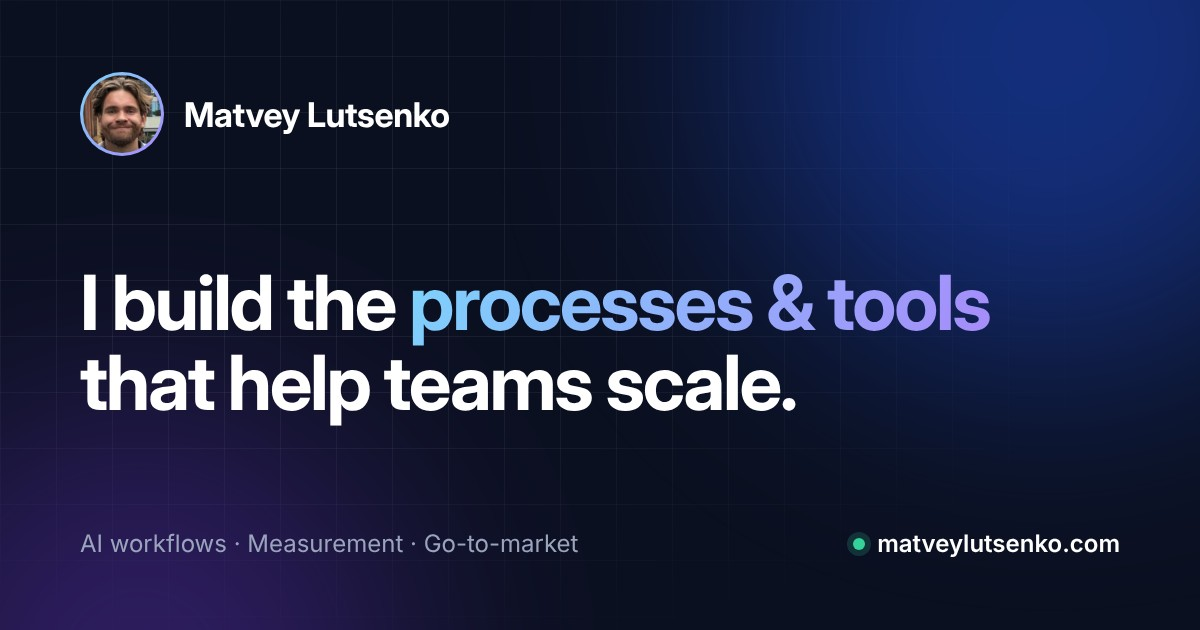
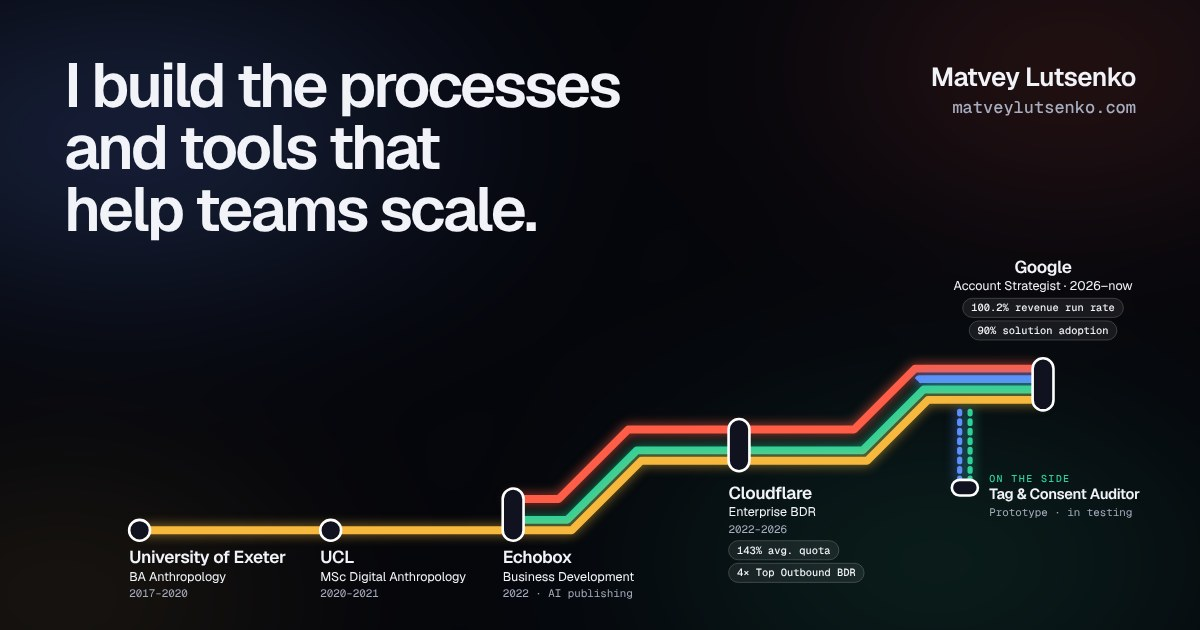
Add station cards, proof tags, line hover and a folded toolkit
Stations open a glass card with the role's story. Key figures sit on
the map as tags. Hovering a line follows and names it. Tool lists
fold behind 'Show all'. Removes the water shape, fits the map on
short laptop screens, shortens the nav name and refreshes the
link-preview image to match the new design.

Claude-Session: https://claude.ai/code/session_01QMtQNGptrkUyWXKCpt37HF

diff --git a/index.html b/index.html
@@ -251,7 +251,7 @@
   .key i{width:9px;height:9px;border-radius:50%;background:var(--build)}
 
   /* toolkit */
-  .groups{display:grid;grid-template-columns:repeat(2,minmax(0,1fr));gap:16px}
+  .groups{display:grid;grid-template-columns:repeat(2,minmax(0,1fr));gap:16px;align-items:start}
   .group{padding:28px 28px 30px;border-radius:24px}
   .group > i{display:block;width:56px;height:4px;border-radius:2px;background:var(--c);margin-bottom:20px}
   .group h3{font-size:1.5rem;margin-bottom:14px}
@@ -270,6 +270,60 @@
   footer{color:var(--ink-2);font:400 .8125rem var(--mono);border-top:1px solid var(--rule);padding:22px 0}
   footer .wrap{display:flex;flex-wrap:wrap;justify-content:space-between;gap:8px}
 
+
+  /* proof tags on the map */
+  svg .pill{fill:rgba(255,255,255,.07);stroke:rgba(255,255,255,.22);stroke-width:1}
+  svg .pt{font:500 12px var(--mono);fill:var(--ink)}
+  svg .ln,svg .spur{cursor:pointer}
+
+  /* station card */
+  .net{z-index:3}
+  .scard{position:absolute;z-index:6;width:min(350px,calc(100% - 8px));padding:22px 22px 20px;border-radius:22px;background:linear-gradient(135deg,rgba(40,46,74,.82),rgba(14,17,30,.86));transform-origin:var(--ox,50%) var(--oy,0)}
+  .scard[hidden]{display:none}
+  @media (prefers-reduced-motion:no-preference){.scard{animation:pop .35s var(--ease)}@keyframes pop{from{opacity:0;transform:translateY(6px) scale(.97)}}}
+  .scard .x{position:absolute;top:10px;right:10px;width:36px;height:36px;border-radius:50%;border:1px solid rgba(255,255,255,.16);background:rgba(255,255,255,.06);color:var(--ink);cursor:pointer;display:grid;place-items:center}
+  .scard .x:hover{border-color:rgba(255,255,255,.5)}
+  .scard .x svg{width:14px;height:14px}
+  .scard small{display:block;font:400 .75rem var(--mono);letter-spacing:.04em;color:var(--ink-2);padding-right:44px}
+  .scard h3{font-size:1.5rem;margin:8px 0 2px}
+  .scard .r{font-weight:500}
+  .scard ul{list-style:none;display:grid;gap:8px;margin-top:14px}
+  .scard li{position:relative;padding-left:18px;font-size:.9375rem;color:#d5d9e4;text-wrap:pretty}
+  .scard li::before{content:"";position:absolute;left:1px;top:.62em;width:7px;height:7px;border-radius:50%;background:var(--ink-2)}
+  .scard .nums{display:flex;flex-wrap:wrap;gap:6px;margin-top:14px}
+  .scard .nums span{font:400 .6875rem/1.25 var(--mono);color:var(--ink-2);padding:9px 12px;border-radius:14px;background:rgba(255,255,255,.06);border:1px solid rgba(255,255,255,.12)}
+  .scard .nums b{display:block;font:600 1.125rem/1.2 Geist,sans-serif;letter-spacing:-.02em;color:var(--ink)}
+  .scard .ft{display:flex;align-items:center;justify-content:space-between;gap:12px;margin-top:16px}
+  .scard .ls{display:flex;gap:4px}
+  .scard .ls i{width:20px;height:4px;border-radius:2px;background:var(--c)}
+  .scard .ft a{font-weight:500;font-size:.9375rem}
+
+  /* line name that follows the pointer */
+  .tip{position:fixed;left:0;top:0;z-index:60;pointer-events:none;display:flex;align-items:center;gap:8px;padding:7px 12px;border-radius:999px;font:500 .8125rem/1 Geist,sans-serif;background:rgba(20,24,40,.9);border:1px solid rgba(255,255,255,.18);opacity:0;transition:opacity .15s}
+  .tip.on{opacity:1}
+  .tip::before{content:"";width:16px;height:4px;border-radius:2px;background:var(--c)}
+
+  /* toolkit folds */
+  .group details{margin-top:14px}
+  .group summary{display:inline-flex;align-items:center;gap:8px;min-height:38px;padding:0 14px;border-radius:999px;border:1px solid rgba(255,255,255,.16);background:rgba(255,255,255,.05);font-weight:500;font-size:.875rem;cursor:pointer;list-style:none}
+  .group summary::-webkit-details-marker{display:none}
+  .group summary::after{content:"";width:7px;height:7px;border-right:1.5px solid currentColor;border-bottom:1.5px solid currentColor;transform:translateY(-2px) rotate(45deg);transition:transform .2s var(--ease)}
+  .group details[open] summary::after{transform:translateY(2px) rotate(225deg)}
+  .group summary:hover{border-color:rgba(255,255,255,.45)}
+  .group details dl{margin-top:16px}
+
+  /* keep the whole map on the first screen of a short laptop */
+  @media (min-width:1001px) and (max-height:800px){
+    .bar .wrap{height:54px}
+    .open{padding-top:26px}
+    h1{font-size:clamp(2.1rem,3.5vw,3rem)}
+    .lead{font-size:1rem;line-height:1.5}
+    .acts{margin-top:14px}
+    .btn{min-height:42px}
+    .elsewhere{display:none}
+    .net{margin-top:4px}
+    .net > .net-head{top:6px}
+  }
   @media (max-width:1000px){
     .links{display:none}
     .open-top{grid-template-columns:1fr;align-items:start}
@@ -309,7 +363,7 @@
 
 <header class="bar">
   <div class="wrap">
-    <a href="#top" class="me"><img src="headshot.jpg" alt="" width="36" height="36"><span>Matvey Lutsenko</span></a>
+    <a href="#top" class="me"><img src="headshot.jpg" alt="" width="36" height="36"><span>Matvey</span></a>
     <nav class="links" aria-label="Sections">
       <a href="#project">Project</a>
       <a href="#approach">How I work</a>
@@ -346,11 +400,12 @@
           <button type="button" data-pick="people" aria-pressed="false" style="--c:var(--people)"><i></i>People &amp; research</button>
         </div>
       </div>
-      <div class="map">
-        <svg class="map-h" viewBox="0 0 1280 420" role="img" aria-labelledby="map-h-t" xmlns="http://www.w3.org/2000/svg"><title id="map-h-t">Career network map: University of Exeter, UCL, Echobox, Cloudflare and Google, plus the Tag &amp; Consent Auditor side project.</title><defs><clipPath id="map-h-face"><circle cx="0" cy="0" r="31"/></clipPath></defs><path class="water" d="M872 0 C 880 110, 990 170, 968 270 C 950 350, 985 390, 990 420 L 1050 420 C 1040 380, 1012 340, 1030 270 C 1052 170, 940 100, 936 0 Z"/><g class="lines"><path class="ln l-gtm" data-line="gtm" pathLength="1" stroke-width="9" d="M533.3 282 L592.5 282 L672.5 202 L932.5 202 L1002.5 132 L1148 132"/><path class="ln l-ads" data-line="ads" pathLength="1" stroke-width="9" d="M1005.5 146 L1007.5 144 L1149.3 144"/><path class="ln l-build" data-line="build" pathLength="1" stroke-width="9" d="M542.2 306 L602.5 306 L682.5 226 L942.5 226 L1012.5 156 L1150.7 156"/><path class="ln l-people" data-line="people" pathLength="1" stroke-width="9" d="M110.9 318 L607.5 318 L687.5 238 L947.5 238 L1017.5 168 L1152 168"/></g><a class="stn side" href="#project" data-lines="ads build"><g><path class="spur l-ads" data-line="ads" stroke-width="6" d="M1054 181 V262"/><path class="spur l-build" data-line="build" stroke-width="6" d="M1066 181 V262"/><rect class="mk" x="1045" y="260" width="30" height="18" rx="9"/><text class="lbl" x="1088" text-anchor="start"><tspan class="here sidek" x="1088" y="262">On the side</tspan><tspan class="sn sn-side" x="1088" y="282">Tag &amp; Consent Auditor</tspan><tspan class="sm" x="1088" y="302">Prototype · in testing</tspan></text></g></a><a class="stn" href="#st-exeter" data-lines="people"><g><rect class="mk" x="98" y="306" width="24" height="24" rx="12"/><text class="lbl" x="98" text-anchor="start"><tspan class="sn" x="98" y="356">University of Exeter</tspan><tspan class="sr" x="98" y="376">BA Anthropology</tspan><tspan class="sm" x="98" y="395">2017–2020</tspan></text></g></a><a class="stn" href="#st-ucl" data-lines="people"><g><rect class="mk" x="318" y="306" width="24" height="24" rx="12"/><text class="lbl" x="318" text-anchor="start"><tspan class="sn" x="318" y="356">UCL</tspan><tspan class="sr" x="318" y="376">MSc Digital Anthropology</tspan><tspan class="sm" x="318" y="395">2020–2021</tspan></text></g></a><a class="stn" href="#st-echobox" data-lines="gtm build people"><g><rect class="mk" x="528" y="270" width="24" height="60" rx="12"/><text class="lbl" x="528" text-anchor="start"><tspan class="sn" x="528" y="356">Echobox</tspan><tspan class="sr" x="528" y="376">Business Development</tspan><tspan class="sm" x="528" y="395">2022 · AI publishing</tspan></text></g></a><a class="stn" href="#st-cloudflare" data-lines="gtm build people"><g><rect class="mk" x="788" y="190" width="24" height="60" rx="12"/><text class="lbl" x="788" text-anchor="start"><tspan class="sn" x="788" y="282">Cloudflare</tspan><tspan class="sr" x="788" y="302">Enterprise BDR</tspan><tspan class="sm" x="788" y="321">2022–2026</tspan><tspan class="sp" x="788" y="340">143% avg. quota</tspan></text></g></a><a class="stn" href="#st-google" data-lines="gtm ads build people"><g><rect class="mk" x="1138" y="120" width="24" height="60" rx="12"/><text class="lbl" x="1150" text-anchor="middle"><tspan class="sn" x="1150" y="68">Google</tspan><tspan class="sr" x="1150" y="88">Account Strategist · 2026–now</tspan><tspan class="sp" x="1150" y="107">100.2% revenue run rate</tspan></text></g></a><g class="trains" aria-hidden="true"><circle class="train" data-line="gtm" r="3.2"><animateMotion dur="5s" repeatCount="indefinite" path="M533.3 282 L592.5 282 L672.5 202 L932.5 202 L1002.5 132 L1148 132"/></circle><circle class="train" data-line="ads" r="3.2"><animateMotion dur="6.4s" repeatCount="indefinite" path="M1005.5 146 L1007.5 144 L1149.3 144"/></circle><circle class="train" data-line="build" r="3.2"><animateMotion dur="7.8s" repeatCount="indefinite" path="M542.2 306 L602.5 306 L682.5 226 L942.5 226 L1012.5 156 L1150.7 156"/></circle><circle class="train" data-line="people" r="3.2"><animateMotion dur="9.2s" repeatCount="indefinite" path="M110.9 318 L607.5 318 L687.5 238 L947.5 238 L1017.5 168 L1152 168"/></circle></g></svg>
-        <svg class="map-v" viewBox="0 0 400 715" role="img" aria-labelledby="map-v-t" xmlns="http://www.w3.org/2000/svg"><title id="map-v-t">Career network map: University of Exeter, UCL, Echobox, Cloudflare and Google, plus the Tag &amp; Consent Auditor side project.</title><defs><clipPath id="map-v-face"><circle cx="0" cy="0" r="25"/></clipPath></defs><path class="water" d="M0 196 C 120 216, 220 168, 400 196 L 400 240 C 230 214, 120 264, 0 244 Z"/><g class="lines"><path class="ln l-gtm" data-line="gtm" pathLength="1" stroke-width="8" d="M33.5 429.4 L33.5 395.7 L77.5 351.7 L77.5 208.7 L116 170.2 L116 98.2"/><path class="ln l-ads" data-line="ads" pathLength="1" stroke-width="8" d="M125.9 175.8 L127 174.7 L127 99.4"/><path class="ln l-build" data-line="build" pathLength="1" stroke-width="8" d="M55.5 437.5 L55.5 404.8 L99.5 360.8 L99.5 217.8 L138 179.3 L138 100.6"/><path class="ln l-people" data-line="people" pathLength="1" stroke-width="8" d="M66.5 672.9 L66.5 409.3 L110.5 365.3 L110.5 222.3 L149 183.8 L149 101.8"/></g><a class="stn side" href="#project" data-lines="ads build"><g><path class="spur l-ads" data-line="ads" stroke-width="5" d="M159 160.5 H204"/><path class="spur l-build" data-line="build" stroke-width="5" d="M159 171.5 H204"/><rect class="mk" x="202" y="151.5" width="18" height="29" rx="9"/><text class="lbl" x="182" text-anchor="start"><tspan class="here sidek" x="182" y="200">On the side</tspan><tspan class="sn sn-side" x="182" y="220">Tag &amp; Consent Auditor</tspan><tspan class="sm" x="182" y="240">Prototype · in testing</tspan></text></g></a><a class="stn" href="#st-exeter" data-lines="people"><g><rect class="mk" x="55.5" y="661" width="22" height="22" rx="11"/><text class="lbl" x="104" text-anchor="start"><tspan class="sn" x="104" y="668">University of Exeter</tspan><tspan class="sr" x="104" y="687">BA Anthropology</tspan><tspan class="sm" x="104" y="705">2017–2020</tspan></text></g></a><a class="stn" href="#st-ucl" data-lines="people"><g><rect class="mk" x="55.5" y="540" width="22" height="22" rx="11"/><text class="lbl" x="104" text-anchor="start"><tspan class="sn" x="104" y="547">UCL</tspan><tspan class="sr" x="104" y="566">MSc Digital Anthropology</tspan><tspan class="sm" x="104" y="584">2020–2021</tspan></text></g></a><a class="stn" href="#st-echobox" data-lines="gtm build people"><g><rect class="mk" x="22.5" y="424.5" width="55" height="22" rx="11"/><text class="lbl" x="110" text-anchor="start"><tspan class="sn" x="110" y="431">Echobox</tspan><tspan class="sr" x="110" y="450">Business Development</tspan><tspan class="sm" x="110" y="468">2022 · AI publishing</tspan></text></g></a><a class="stn" href="#st-cloudflare" data-lines="gtm build people"><g><rect class="mk" x="66.5" y="281.5" width="55" height="22" rx="11"/><text class="lbl" x="144" text-anchor="start"><tspan class="sn" x="144" y="288">Cloudflare</tspan><tspan class="sr" x="144" y="307">Enterprise BDR</tspan><tspan class="sm" x="144" y="325">2022–2026</tspan><tspan class="sp" x="144" y="343">143% avg. quota</tspan></text></g></a><a class="stn" href="#st-google" data-lines="gtm ads build people"><g><rect class="mk" x="105" y="89" width="55" height="22" rx="11"/><text class="lbl" x="166" text-anchor="start"><tspan class="sn" x="166" y="94">Google</tspan><tspan class="sr" x="166" y="113">Account Strategist</tspan><tspan class="sm" x="166" y="131">2026–now · Dublin</tspan><tspan class="sp" x="166" y="149">100.2% revenue run rate</tspan></text></g></a><g class="trains" aria-hidden="true"><circle class="train" data-line="gtm" r="2.9"><animateMotion dur="5s" repeatCount="indefinite" path="M33.5 429.4 L33.5 395.7 L77.5 351.7 L77.5 208.7 L116 170.2 L116 98.2"/></circle><circle class="train" data-line="ads" r="2.9"><animateMotion dur="6.4s" repeatCount="indefinite" path="M125.9 175.8 L127 174.7 L127 99.4"/></circle><circle class="train" data-line="build" r="2.9"><animateMotion dur="7.8s" repeatCount="indefinite" path="M55.5 437.5 L55.5 404.8 L99.5 360.8 L99.5 217.8 L138 179.3 L138 100.6"/></circle><circle class="train" data-line="people" r="2.9"><animateMotion dur="9.2s" repeatCount="indefinite" path="M66.5 672.9 L66.5 409.3 L110.5 365.3 L110.5 222.3 L149 183.8 L149 101.8"/></circle></g></svg>
+      <div class="map" id="map">
+        <svg class="map-h" viewBox="0 0 1280 404" role="img" aria-labelledby="map-h-t" xmlns="http://www.w3.org/2000/svg"><title id="map-h-t">Career network map: University of Exeter, UCL, Echobox, Cloudflare and Google, plus the Tag &amp; Consent Auditor side project.</title><defs><clipPath id="map-h-face"><circle cx="0" cy="0" r="31"/></clipPath></defs><g class="lines"><path class="ln l-gtm" data-line="gtm" pathLength="1" stroke-width="9" d="M533.3 282 L592.5 282 L672.5 202 L932.5 202 L1002.5 132 L1148 132"/><path class="ln l-ads" data-line="ads" pathLength="1" stroke-width="9" d="M1005.5 146 L1007.5 144 L1149.3 144"/><path class="ln l-build" data-line="build" pathLength="1" stroke-width="9" d="M542.2 306 L602.5 306 L682.5 226 L942.5 226 L1012.5 156 L1150.7 156"/><path class="ln l-people" data-line="people" pathLength="1" stroke-width="9" d="M110.9 318 L607.5 318 L687.5 238 L947.5 238 L1017.5 168 L1152 168"/></g><a class="stn side" href="#project" data-lines="ads build"><g><path class="spur l-ads" data-line="ads" stroke-width="6" d="M1054 181 V262"/><path class="spur l-build" data-line="build" stroke-width="6" d="M1066 181 V262"/><rect class="mk" x="1045" y="260" width="30" height="18" rx="9"/><text class="lbl" x="1088" text-anchor="start"><tspan class="here sidek" x="1088" y="262">On the side</tspan><tspan class="sn sn-side" x="1088" y="282">Tag &amp; Consent Auditor</tspan><tspan class="sm" x="1088" y="302">Prototype · in testing</tspan></text></g></a><a class="stn" href="#st-exeter" data-lines="people"><g><rect class="mk" x="98" y="306" width="24" height="24" rx="12"/><text class="lbl" x="98" text-anchor="start"><tspan class="sn" x="98" y="356">University of Exeter</tspan><tspan class="sr" x="98" y="376">BA Anthropology</tspan><tspan class="sm" x="98" y="395">2017–2020</tspan></text></g></a><a class="stn" href="#st-ucl" data-lines="people"><g><rect class="mk" x="318" y="306" width="24" height="24" rx="12"/><text class="lbl" x="318" text-anchor="start"><tspan class="sn" x="318" y="356">UCL</tspan><tspan class="sr" x="318" y="376">MSc Digital Anthropology</tspan><tspan class="sm" x="318" y="395">2020–2021</tspan></text></g></a><a class="stn" href="#st-echobox" data-lines="gtm build people"><g><rect class="mk" x="528" y="270" width="24" height="60" rx="12"/><text class="lbl" x="528" text-anchor="start"><tspan class="sn" x="528" y="356">Echobox</tspan><tspan class="sr" x="528" y="376">Business Development</tspan><tspan class="sm" x="528" y="395">2022 · AI publishing</tspan></text></g></a><a class="stn" href="#st-cloudflare" data-lines="gtm build people"><g><rect class="mk" x="788" y="190" width="24" height="60" rx="12"/><text class="lbl" x="788" text-anchor="start"><tspan class="sn" x="788" y="282">Cloudflare</tspan><tspan class="sr" x="788" y="302">Enterprise BDR</tspan><tspan class="sm" x="788" y="321">2022–2026</tspan></text><rect class="pill" x="788" y="330" width="127" height="22" rx="11"/><text class="pt" style="font-size:12px" x="851.5" y="345" text-anchor="middle">143% avg. quota</text><rect class="pill" x="788" y="356" width="156" height="22" rx="11"/><text class="pt" style="font-size:12px" x="866" y="371" text-anchor="middle">4× Top Outbound BDR</text></g></a><a class="stn" href="#st-google" data-lines="gtm ads build people"><g><rect class="mk" x="1138" y="120" width="24" height="60" rx="12"/><text class="lbl" x="1150" text-anchor="middle"><tspan class="sn" x="1150" y="22">Google</tspan><tspan class="sr" x="1150" y="42">Account Strategist · 2026–now</tspan></text><rect class="pill" x="1057.5" y="51" width="185" height="22" rx="11"/><text class="pt" style="font-size:12px" x="1150" y="66" text-anchor="middle">100.2% revenue run rate</text><rect class="pill" x="1065" y="77" width="170" height="22" rx="11"/><text class="pt" style="font-size:12px" x="1150" y="92" text-anchor="middle">90% solution adoption</text></g></a><g class="trains" aria-hidden="true"><circle class="train" data-line="gtm" r="3.2"><animateMotion dur="5s" repeatCount="indefinite" path="M533.3 282 L592.5 282 L672.5 202 L932.5 202 L1002.5 132 L1148 132"/></circle><circle class="train" data-line="ads" r="3.2"><animateMotion dur="6.4s" repeatCount="indefinite" path="M1005.5 146 L1007.5 144 L1149.3 144"/></circle><circle class="train" data-line="build" r="3.2"><animateMotion dur="7.8s" repeatCount="indefinite" path="M542.2 306 L602.5 306 L682.5 226 L942.5 226 L1012.5 156 L1150.7 156"/></circle><circle class="train" data-line="people" r="3.2"><animateMotion dur="9.2s" repeatCount="indefinite" path="M110.9 318 L607.5 318 L687.5 238 L947.5 238 L1017.5 168 L1152 168"/></circle></g></svg>
+        <svg class="map-v" viewBox="0 0 400 715" role="img" aria-labelledby="map-v-t" xmlns="http://www.w3.org/2000/svg"><title id="map-v-t">Career network map: University of Exeter, UCL, Echobox, Cloudflare and Google, plus the Tag &amp; Consent Auditor side project.</title><defs><clipPath id="map-v-face"><circle cx="0" cy="0" r="25"/></clipPath></defs><g class="lines"><path class="ln l-gtm" data-line="gtm" pathLength="1" stroke-width="8" d="M33.5 429.4 L33.5 395.7 L77.5 351.7 L77.5 208.7 L116 170.2 L116 98.2"/><path class="ln l-ads" data-line="ads" pathLength="1" stroke-width="8" d="M125.9 175.8 L127 174.7 L127 99.4"/><path class="ln l-build" data-line="build" pathLength="1" stroke-width="8" d="M55.5 437.5 L55.5 404.8 L99.5 360.8 L99.5 217.8 L138 179.3 L138 100.6"/><path class="ln l-people" data-line="people" pathLength="1" stroke-width="8" d="M66.5 672.9 L66.5 409.3 L110.5 365.3 L110.5 222.3 L149 183.8 L149 101.8"/></g><a class="stn side" href="#project" data-lines="ads build"><g><path class="spur l-ads" data-line="ads" stroke-width="5" d="M159 160.5 H204"/><path class="spur l-build" data-line="build" stroke-width="5" d="M159 171.5 H204"/><rect class="mk" x="202" y="151.5" width="18" height="29" rx="9"/><text class="lbl" x="182" text-anchor="start"><tspan class="here sidek" x="182" y="200">On the side</tspan><tspan class="sn sn-side" x="182" y="220">Tag &amp; Consent Auditor</tspan><tspan class="sm" x="182" y="240">Prototype · in testing</tspan></text></g></a><a class="stn" href="#st-exeter" data-lines="people"><g><rect class="mk" x="55.5" y="661" width="22" height="22" rx="11"/><text class="lbl" x="104" text-anchor="start"><tspan class="sn" x="104" y="668">University of Exeter</tspan><tspan class="sr" x="104" y="687">BA Anthropology</tspan><tspan class="sm" x="104" y="705">2017–2020</tspan></text></g></a><a class="stn" href="#st-ucl" data-lines="people"><g><rect class="mk" x="55.5" y="540" width="22" height="22" rx="11"/><text class="lbl" x="104" text-anchor="start"><tspan class="sn" x="104" y="547">UCL</tspan><tspan class="sr" x="104" y="566">MSc Digital Anthropology</tspan><tspan class="sm" x="104" y="584">2020–2021</tspan></text></g></a><a class="stn" href="#st-echobox" data-lines="gtm build people"><g><rect class="mk" x="22.5" y="424.5" width="55" height="22" rx="11"/><text class="lbl" x="110" text-anchor="start"><tspan class="sn" x="110" y="431">Echobox</tspan><tspan class="sr" x="110" y="450">Business Development</tspan><tspan class="sm" x="110" y="468">2022 · AI publishing</tspan></text></g></a><a class="stn" href="#st-cloudflare" data-lines="gtm build people"><g><rect class="mk" x="66.5" y="281.5" width="55" height="22" rx="11"/><text class="lbl" x="144" text-anchor="start"><tspan class="sn" x="144" y="288">Cloudflare</tspan><tspan class="sr" x="144" y="307">Enterprise BDR</tspan><tspan class="sm" x="144" y="325">2022–2026</tspan></text><rect class="pill" x="144" y="334" width="127" height="22" rx="11"/><text class="pt" style="font-size:12px" x="207.5" y="349" text-anchor="middle">143% avg. quota</text><rect class="pill" x="144" y="360" width="156" height="22" rx="11"/><text class="pt" style="font-size:12px" x="222" y="375" text-anchor="middle">4× Top Outbound BDR</text></g></a><a class="stn" href="#st-google" data-lines="gtm ads build people"><g><rect class="mk" x="105" y="89" width="55" height="22" rx="11"/><text class="lbl" x="160" text-anchor="start"><tspan class="sn" x="160" y="72">Google</tspan><tspan class="sr" x="160" y="91">Account Strategist</tspan><tspan class="sm" x="160" y="109">2026–now · Dublin</tspan></text><rect class="pill" x="160" y="118" width="122" height="22" rx="11"/><text class="pt" style="font-size:11.5px" x="221" y="133" text-anchor="middle">100.2% run rate</text><rect class="pill" x="288" y="118" width="101" height="22" rx="11"/><text class="pt" style="font-size:11.5px" x="338.5" y="133" text-anchor="middle">90% adoption</text></g></a><g class="trains" aria-hidden="true"><circle class="train" data-line="gtm" r="2.9"><animateMotion dur="5s" repeatCount="indefinite" path="M33.5 429.4 L33.5 395.7 L77.5 351.7 L77.5 208.7 L116 170.2 L116 98.2"/></circle><circle class="train" data-line="ads" r="2.9"><animateMotion dur="6.4s" repeatCount="indefinite" path="M125.9 175.8 L127 174.7 L127 99.4"/></circle><circle class="train" data-line="build" r="2.9"><animateMotion dur="7.8s" repeatCount="indefinite" path="M55.5 437.5 L55.5 404.8 L99.5 360.8 L99.5 217.8 L138 179.3 L138 100.6"/></circle><circle class="train" data-line="people" r="2.9"><animateMotion dur="9.2s" repeatCount="indefinite" path="M66.5 672.9 L66.5 409.3 L110.5 365.3 L110.5 222.3 L149 183.8 L149 101.8"/></circle></g></svg>
       </div>
-      <p class="note">Map not to scale · pick a line to follow it · select a station to jump to it</p>
+      <div class="scard glass" id="scard" role="dialog" aria-labelledby="scard-t" hidden></div>
+      <p class="note">Map not to scale · hover or pick a line to follow it · select a station for the story</p>
     </div>
   </div>
 </div>
@@ -480,33 +535,41 @@
         <h3>Go-to-market</h3>
         <dl>
           <div><dt>Skills</dt><dd>Strategic account planning · Consultative selling · Client relationship management</dd></div>
-          <div><dt>CRM &amp; prospecting</dt><dd>HubSpot · Salesforce · Outreach · Salesloft · LinkedIn Sales Navigator · Clay · Apollo</dd></div>
         </dl>
+        <details><summary>Show all</summary><dl>
+          <div><dt>CRM &amp; prospecting</dt><dd>HubSpot · Salesforce · Outreach · Salesloft · LinkedIn Sales Navigator · Clay · Apollo</dd></div>
+        </dl></details>
       </div>
       <div class="group glass" data-lines="ads" style="--c:var(--ads)"><i></i>
         <h3>Ads &amp; measurement</h3>
         <dl>
           <div><dt>Skills</dt><dd>Digital &amp; AI bidding strategy · Performance &amp; attribution analysis · First-party measurement &amp; CRM</dd></div>
+        </dl>
+        <details><summary>Show all</summary><dl>
           <div><dt>Advertising</dt><dd>Google Ads · Search AI Max · Performance Max · YouTube Ads · Google Ads API · Offline conversion imports · Meta Ads · LinkedIn Campaign Manager · Microsoft Advertising</dd></div>
           <div><dt>Tracking</dt><dd>Google Tag Manager · Server-side GTM · GA4 · Consent Mode v2 · Cookiebot · Enhanced Conversions · Stape · Meta Conversions API · LinkedIn Insight Tag · Microsoft UET</dd></div>
           <div><dt>Data &amp; reporting</dt><dd>Google Sheets (advanced) · Excel · BigQuery · Looker Studio · Meridian (MMM)</dd></div>
-        </dl>
+        </dl></details>
       </div>
       <div class="group glass" data-lines="build" style="--c:var(--build)"><i></i>
         <h3>Build &amp; AI</h3>
         <dl>
           <div><dt>Skills</dt><dd>Process &amp; workflow design · AI diagnostic workflows</dd></div>
+        </dl>
+        <details><summary>Show all</summary><dl>
           <div><dt>AI &amp; automation</dt><dd>Claude · ChatGPT · Gemini · Custom GPTs &amp; Gems · Zapier · Make · Python (Colab)</dd></div>
           <div><dt>Web &amp; infrastructure</dt><dd>Cloudflare · GitHub · HTML &amp; CSS · Shopify · Google Workspace · SPF / DKIM / DMARC <small>Including this site.</small></dd></div>
-        </dl>
+        </dl></details>
       </div>
       <div class="group glass" data-lines="people" style="--c:var(--people)"><i></i>
         <h3>People &amp; research</h3>
         <dl>
           <div><dt>Skills</dt><dd>Cross-functional collaboration · Stakeholder &amp; agency engagement</dd></div>
+        </dl>
+        <details><summary>Show all</summary><dl>
           <div><dt>Languages</dt><dd>English and Russian, native in both</dd></div>
           <div><dt>Beyond work</dt><dd>Mind, London <small>Fundraising for the mental health charity through sporting events across London.</small></dd><dd>Think Pacific, Lawaki, Fiji <small>Co-led and fundraised for health education programmes with the Fijian Ministry of Sport.</small></dd></div>
-        </dl>
+        </dl></details>
       </div>
     </div>
   </div>
@@ -527,6 +590,7 @@
 </section>
 </main>
 
+<div class="tip" id="tip" aria-hidden="true"></div>
 <footer>
   <div class="wrap"><span>© <span id="yr">2026</span> Matvey Lutsenko</span><span>Map not to scale.</span></div>
 </footer>
@@ -550,6 +614,54 @@
     b.addEventListener('pointerenter', () => { if (!locked) show(b.dataset.pick); });
     b.addEventListener('pointerleave', () => { if (!locked) show(null); });
   });
+
+  // station cards: the story of each stop, opened on the map
+  const CARDS = {
+    google: { when: 'Aug 2026 – now · Dublin', name: 'Google', role: 'Account Strategist', pts: ['Built AI diagnostic workflows across a portfolio of 50 UK & Ireland businesses.', 'Architect Value-Based Bidding experiments across Search AI Max, Performance Max and YouTube.'], nums: [['100.2%', 'revenue run rate'], ['90%', 'solution adoption'], ['82%', 'pitch coverage']], lines: ['gtm', 'ads', 'build', 'people'], href: '#st-google' },
+    cloudflare: { when: 'Dec 2022 – Jul 2026 · London', name: 'Cloudflare', role: 'Enterprise Business Development Representative', pts: ['Designed data-driven, multi-channel outreach for regional verticals and senior technical buyers.', 'New Hire Coach, Interview Panellist and Social Committee Chair for the EMEA BDR organisation.'], nums: [['143%', 'avg. quota attainment'], ['4×', 'Top Outbound BDR'], ['Q3–Q4 2024', 'EMEA BDR of the Quarter']], lines: ['gtm', 'build', 'people'], href: '#st-cloudflare' },
+    echobox: { when: 'Jan – Dec 2022 · London', name: 'Echobox', role: 'Business Development Executive', pts: ['Supported Eastern European digital publishers in using AI and automation to grow engagement and revenue.', 'Collaborated with The Associated Press on AI-based newsroom optimisation across U.S. markets.'], lines: ['gtm', 'build', 'people'], href: '#st-echobox' },
+    ucl: { when: '2020 – 2021 · London', name: 'University College London', role: 'MSc Digital Anthropology', pts: ['Thesis: Russian pro-democratic digital journalism and diasporic media networks.'], lines: ['people'], href: '#st-ucl' },
+    exeter: { when: '2017 – 2020 · Exeter', name: 'University of Exeter', role: 'BA Anthropology', pts: ['Researched alternative knowledge communities; curated artefacts for the John Douglas Museum.'], lines: ['people'], href: '#st-exeter' },
+    project: { when: 'On the side · prototype in testing', name: 'Tag & Consent Auditor', role: 'A Chrome extension I built on my own time', pts: ["Audits a website's tags, Consent Mode v2 and conversion tracking in one click.", 'Runs entirely in the browser. It only observes, and no data leaves the machine.'], lines: ['ads', 'build'], href: '#project', more: 'See the project' },
+  };
+  const esc = s => s.replace(/&/g, '&amp;').replace(/</g, '&lt;');
+  const mapEl = document.getElementById('map'), card = document.getElementById('scard');
+  let opener = null;
+  function closeCard() { if (card.hidden) return; card.hidden = true; if (opener) opener.focus({ preventScroll: true }); opener = null; }
+  function openCard(a) {
+    const id = a.getAttribute('href').replace('#st-', '').replace('#', ''), d = CARDS[id]; if (!d) return;
+    opener = a;
+    card.innerHTML = `<button class="x" type="button" aria-label="Close"><svg viewBox="0 0 14 14" fill="none" stroke="currentColor" stroke-width="1.8" stroke-linecap="round" aria-hidden="true"><path d="M2 2l10 10M12 2 2 12"/></svg></button>
+      <small>${esc(d.when)}</small><h3 id="scard-t">${esc(d.name)}</h3><p class="r">${esc(d.role)}</p>
+      <ul>${d.pts.map(p => `<li>${esc(p)}</li>`).join('')}</ul>
+      ${d.nums ? `<div class="nums">${d.nums.map(n => `<span><b>${n[0]}</b>${n[1]}</span>`).join('')}</div>` : ''}
+      <div class="ft"><span class="ls" aria-hidden="true">${d.lines.map(l => `<i style="--c:var(--${l})"></i>`).join('')}</span><a class="tl" href="${d.href}">${d.more || 'Full details'}</a></div>`;
+    card.hidden = false;
+    const net = card.parentElement.getBoundingClientRect(), mk = a.querySelector('.mk').getBoundingClientRect();
+    const w = card.offsetWidth, h = card.offsetHeight, cx = mk.left + mk.width / 2 - net.left;
+    const left = Math.max(0, Math.min(net.width - w, cx - w / 2));
+    const below = mk.bottom - net.top + 14, above = mk.top - net.top - 14 - h;
+    const top = (mk.top + mk.height / 2 - net.top) < net.height * 0.5 || above < -120 ? below : above;
+    card.style.left = left + 'px'; card.style.top = top + 'px';
+    card.style.setProperty('--ox', (cx - left) + 'px'); card.style.setProperty('--oy', top === below ? '0px' : '100%');
+    card.querySelector('.x').addEventListener('click', closeCard);
+    card.querySelector('.ft a').addEventListener('click', () => { opener = null; card.hidden = true; });
+    card.querySelector('.x').focus({ preventScroll: true });
+  }
+  mapEl.querySelectorAll('a.stn').forEach(a => a.addEventListener('click', e => { e.preventDefault(); e.stopPropagation(); if (opener === a) closeCard(); else { card.hidden = true; openCard(a); } }));
+  document.addEventListener('click', e => { if (!card.hidden && !card.contains(e.target)) closeCard(); });
+
+  // hovering a line on the map follows it and names it
+  const NAMES = { gtm: 'Go-to-market', ads: 'Ads & measurement', build: 'Build & AI', people: 'People & research' };
+  const tip = document.getElementById('tip');
+  mapEl.querySelectorAll('.ln, .spur').forEach(l => {
+    const k = l.dataset.line;
+    l.addEventListener('pointerenter', () => { if (!locked) show(k); tip.textContent = NAMES[k]; tip.style.setProperty('--c', `var(--${k})`); tip.classList.add('on'); });
+    l.addEventListener('pointermove', e => { tip.style.transform = `translate(${e.clientX + 14}px, ${e.clientY - 34}px)`; });
+    l.addEventListener('pointerleave', () => { if (!locked) show(null); tip.classList.remove('on'); });
+    l.addEventListener('click', e => { e.stopPropagation(); e.preventDefault(); picks.find(p => p.dataset.pick === k).click(); });
+  });
+
   // rotating word in the headline; the extra words are added here so the HTML reads as one clean sentence
   const rot = document.querySelector('.rotator');
   const tint = ['var(--gtm)', 'var(--ads)', 'var(--build)', 'var(--people)', 'var(--ink)'];
@@ -565,7 +677,7 @@
 
   // liquid-glass highlight follows the pointer
   document.querySelectorAll('.glass').forEach(g => g.addEventListener('pointermove', e => { const r = g.getBoundingClientRect(); g.style.setProperty('--mx', (e.clientX - r.left) + 'px'); g.style.setProperty('--my', (e.clientY - r.top) + 'px'); }, { passive: true }));
-  document.addEventListener('keydown', e => { if (e.key === 'Escape' && locked) { locked = null; picks.forEach(p => p.setAttribute('aria-pressed','false')); show(null); } });
+  document.addEventListener('keydown', e => { if (e.key === 'Escape' && !card.hidden) { closeCard(); return; } if (e.key === 'Escape' && locked) { locked = null; picks.forEach(p => p.setAttribute('aria-pressed','false')); show(null); } });
 </script>
 </body>
 </html>
